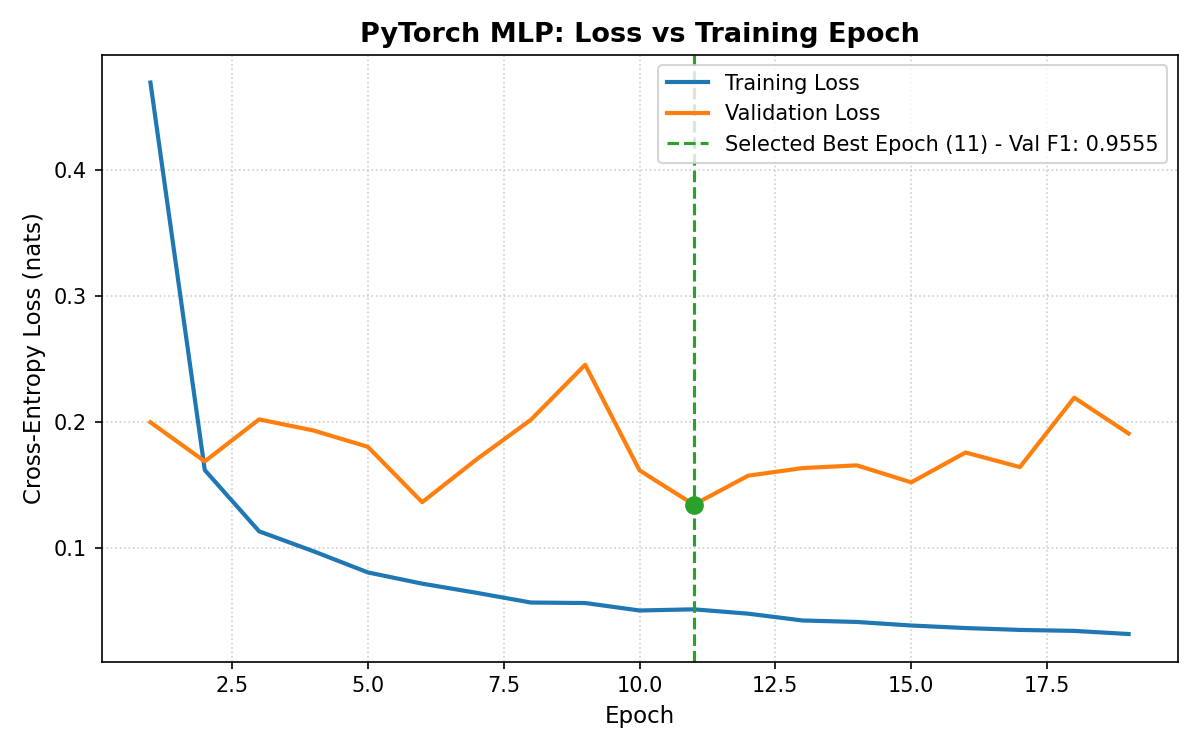
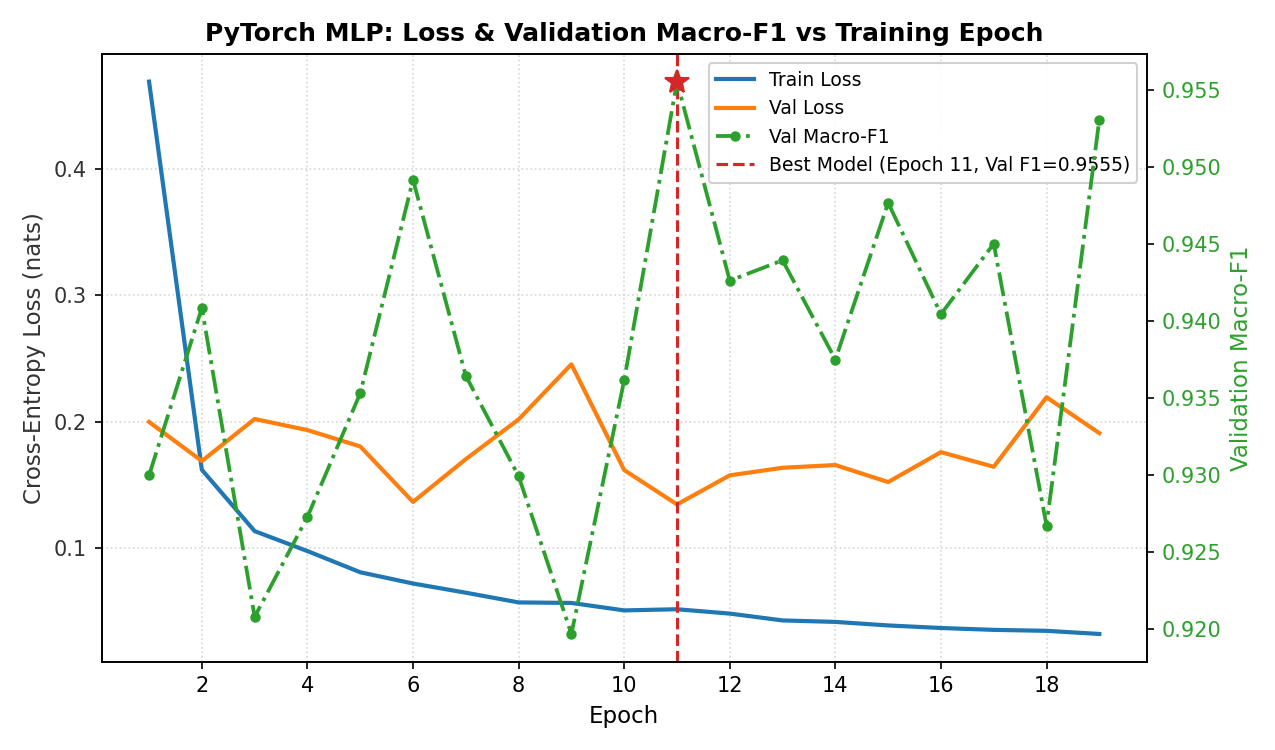
Phase 3 fixes: baseline_rf_final config, MLP docstring fix, dual-axis loss/val-F1 curves

diff --git a/src/train.py b/src/train.py
@@ -39,6 +39,7 @@ from pathlib import Path
 from typing import Any
 
 import matplotlib.pyplot as plt
+from matplotlib.ticker import MaxNLocator
 import numpy as np
 import pandas as pd
 import torch
@@ -163,38 +164,67 @@ def plot_loss_curves(
     output_path: Path,
 ) -> None:
     """
-    Generate and save training and validation loss curves with marked best epoch.
+    Generate and save training and validation loss curves alongside validation macro-F1
+    on a secondary y-axis, with marked best epoch and integer epoch ticks.
 
     Why:
         Plan Section 3b & Rule 12: visual diagnosis of learning convergence,
-        overfitting inflection points, and verification of early stopping selection.
+        overfitting inflection points, and tracking selection noise on validation macro-F1.
     """
-    epochs = [h["epoch"] for h in history]
-    train_losses = [h["train_loss"] for h in history]
-    val_losses = [h["val_loss"] for h in history]
+    epochs = [int(h["epoch"]) for h in history]
+    train_losses = [float(h["train_loss"]) for h in history]
+    val_losses = [float(h["val_loss"]) for h in history]
+    val_f1s = [float(h["val_macro_f1"]) for h in history]
 
-    fig, ax = plt.subplots(figsize=(8, 5), dpi=150)
-    ax.plot(epochs, train_losses, label="Training Loss", color="#1f77b4", lw=2)
-    ax.plot(epochs, val_losses, label="Validation Loss", color="#ff7f0e", lw=2)
+    fig, ax1 = plt.subplots(figsize=(8.5, 5), dpi=150)
+
+    # Primary axis: Loss
+    line1 = ax1.plot(epochs, train_losses, label="Train Loss", color="#1f77b4", lw=2)
+    line2 = ax1.plot(epochs, val_losses, label="Val Loss", color="#ff7f0e", lw=2)
+    ax1.set_xlabel("Epoch", fontsize=11, fontweight="medium")
+    ax1.set_ylabel("Cross-Entropy Loss (nats)", fontsize=11, color="#333333", fontweight="medium")
+    ax1.tick_params(axis="y", labelcolor="#333333")
+    ax1.xaxis.set_major_locator(MaxNLocator(integer=True))
+    ax1.grid(True, linestyle=":", alpha=0.5)
+
+    # Secondary axis: Validation Macro-F1
+    ax2 = ax1.twinx()
+    line3 = ax2.plot(
+        epochs,
+        val_f1s,
+        label="Val Macro-F1",
+        color="#2ca02c",
+        linestyle="-.",
+        lw=1.8,
+        marker="o",
+        markersize=4,
+    )
+    ax2.set_ylabel("Validation Macro-F1", fontsize=11, color="#2ca02c", fontweight="medium")
+    ax2.tick_params(axis="y", labelcolor="#2ca02c")
 
     # Mark the selected best checkpoint epoch
-    ax.axvline(
+    line_best = ax1.axvline(
         x=best_epoch,
-        color="#2ca02c",
+        color="#d62728",
         linestyle="--",
         lw=1.5,
-        label=f"Selected Best Epoch ({best_epoch}) - Val F1: {best_macro_f1:.4f}",
+        label=f"Best Model (Epoch {best_epoch}, Val F1={best_macro_f1:.4f})",
     )
     if 1 <= best_epoch <= len(epochs):
-        best_val_loss = val_losses[best_epoch - 1]
-        ax.plot(best_epoch, best_val_loss, "o", color="#2ca02c", markersize=8)
+        best_f1_val = val_f1s[best_epoch - 1]
+        ax2.plot(best_epoch, best_f1_val, "*", color="#d62728", markersize=12, zorder=5)
+
+    # Combine legends from both axes
+    lines = line1 + line2 + line3 + [line_best]
+    labels = [l.get_label() for l in lines]
+    ax1.legend(lines, labels, loc="upper right", frameon=True, facecolor="white", framealpha=0.9, fontsize=9)
 
     model_display = "PyTorch 1D-CNN" if "cnn" in model_name.lower() else "PyTorch MLP"
-    ax.set_title(f"{model_display}: Loss vs Training Epoch", fontsize=13, fontweight="bold")
-    ax.set_xlabel("Epoch", fontsize=11)
-    ax.set_ylabel("Cross-Entropy Loss (nats)", fontsize=11)
-    ax.grid(True, linestyle=":", alpha=0.6)
-    ax.legend(frameon=True, fontsize=10, loc="upper right")
+    ax1.set_title(
+        f"{model_display}: Loss & Validation Macro-F1 vs Training Epoch",
+        fontsize=12,
+        fontweight="bold",
+    )
     plt.tight_layout()
 
     output_path.parent.mkdir(parents=True, exist_ok=True)

diff --git a/src/tune.py b/src/tune.py
@@ -225,6 +225,17 @@ def run_tuning(budget_path: str = "configs/tuning_budget.yaml") -> dict[str, Any
     )
     logger.info("=" * 60 + "\n")
 
+    # Generate configs/baseline_rf_final.yaml
+    rf_best_params = json.loads(best_rf_record["hyperparameters"])
+    rf_final_cfg = copy.deepcopy(base_rf_cfg)
+    rf_final_cfg["model"]["n_estimators"] = rf_best_params["n_estimators"]
+    rf_final_cfg["model"]["max_depth"] = rf_best_params["max_depth"]
+    rf_final_cfg["model"]["class_weight"] = rf_best_params["class_weight"]
+    rf_final_path = configs_dir / "baseline_rf_final.yaml"
+    with open(rf_final_path, "w", encoding="utf-8") as f:
+        yaml.dump(rf_final_cfg, f, default_flow_style=False)
+    logger.info(f"Generated finalised config: {rf_final_path}")
+
     # Generate configs/mlp_final.yaml
     mlp_best_params = json.loads(best_mlp_record["hyperparameters"])
     mlp_final_cfg = copy.deepcopy(base_mlp_cfg)
@@ -258,6 +269,7 @@ def run_tuning(budget_path: str = "configs/tuning_budget.yaml") -> dict[str, Any
                 "val_macro_f1": best_rf_record["val_macro_f1"],
                 "val_accuracy": best_rf_record["val_accuracy"],
                 "hyperparameters": json.loads(best_rf_record["hyperparameters"]),
+                "final_config_path": str(rf_final_path),
             },
             "mlp": {
                 "trial_id": best_mlp_record["trial_id"],

diff --git a/src/models/mlp.py b/src/models/mlp.py
@@ -3,7 +3,8 @@ Module: src.models.mlp
 Purpose: T3b PyTorch Multi-Layer Perceptron for hand-crafted feature vectors.
 
 Architecture:
-- Input dimension: 84 tabular summary features extracted from 12 sensor channels.
+- Input dimension: 84 tabular summary features (mean, std, min, max, median, IQR
+  over 14 signals: 12 motion channels + |userAcc| + |rotRate|; no skewness).
 - Hidden blocks:
     * Linear(84 -> h1) -> BatchNorm1d(h1) -> ReLU -> Dropout(p)
     * Linear(h1 -> h2) -> BatchNorm1d(h2) -> ReLU -> Dropout(p)
@@ -33,9 +34,8 @@ class PyTorchMLP(nn.Module):
 
     Why:
         Processes 84 hand-crafted statistical features (mean, std, min, max,
-        median, IQR, skewness across 12 motion channels) for human activity recognition.
-        Batch Normalisation stabilises covariate shift across subjects, while
-        Dropout prevents overfitting on smaller activity classes.
+        median, IQR over 14 signals: 12 channels + |userAcc| + |rotRate|; no skewness)
+        for human activity recognition. Dropout prevents overfitting on smaller activity classes.
     """
 
     def __init__(
